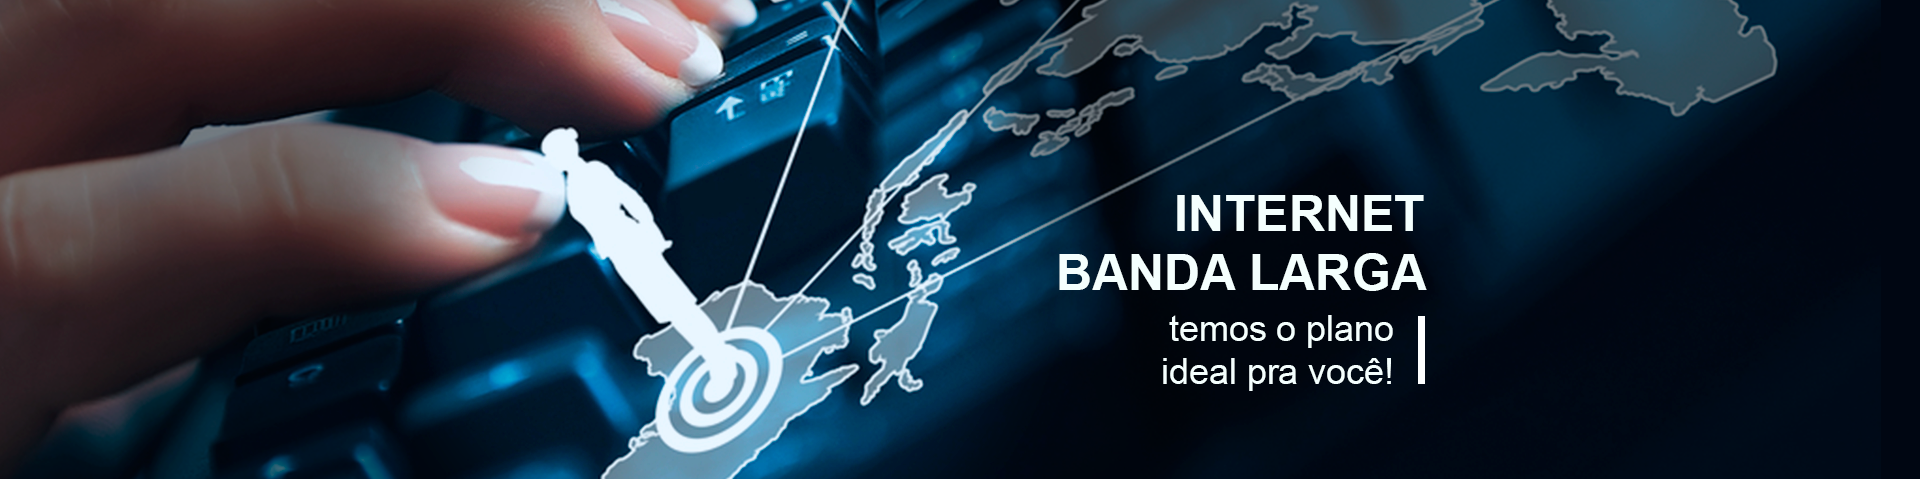
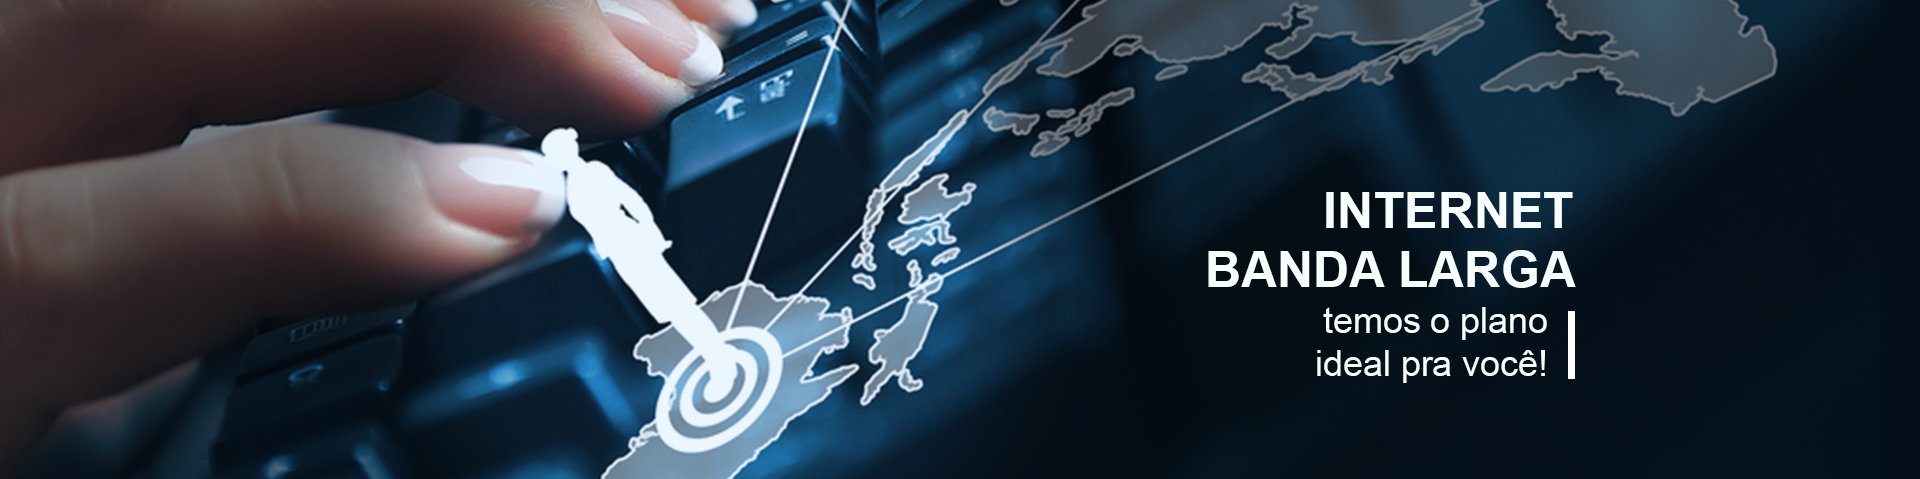
Adjusments pgHome - Full Screen Resolutions

diff --git a/Css/slider.css b/Css/slider.css
@@ -8,7 +8,7 @@ div.container{
 
 ol#car-img{
 	width:50%;
-	left:80%;
+	left:85.2%;
 }
 
 ol.carousel-indicators li{
@@ -16,6 +16,7 @@ ol.carousel-indicators li{
 	height:15px;
 	background-color: #ffb900;
 	border: 4px solid #ffb900;
+	margin-left: 3px;
 }
 
 ol#car-img li.active{
@@ -23,6 +24,7 @@ ol#car-img li.active{
 	height:17px;
     margin: 0px auto;
     cursor: pointer;
+	margin-left: 3px;
 }
 .pager div{
      display: block;

diff --git a/Css/home.css b/Css/home.css
@@ -76,7 +76,7 @@ p.conteudo_link-item_amarela-trsp{
 div#amarela div.acessoRapido{
     position: relative;
     display: table;
-    left: 55%;
+    left: 60%;
     height: 587px;
     width: 417px;
     background: no-repeat gray url("../Images/fundoGrid.gif");
